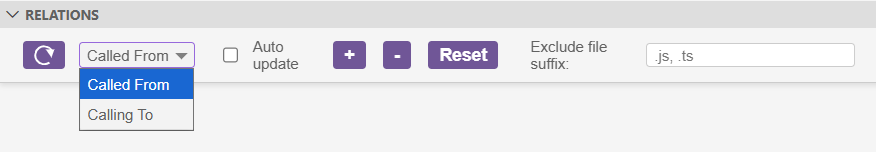
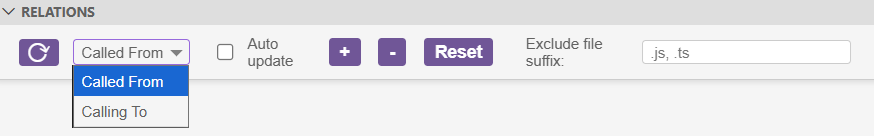
commit new version v3.5.11

diff --git a/src/view/index.html b/src/view/index.html
@@ -1078,31 +1078,6 @@
         });
     </script>
     <style>
-        /* CSS-based refresh icon */
-        .refresh-icon {
-            display: inline-block;
-            width: 13px;
-            height: 13px;
-            border: 2px solid currentColor;
-            border-radius: 50%;
-            border-top-color: transparent;
-            position: relative;
-            transform: scaleX(-1) rotate(-100deg);
-        }
-
-        .refresh-icon::after {
-            content: '';
-            position: absolute;
-            top: -2px;
-            right: -1px;
-            width: 0;
-            height: 0;
-            border-left: 4px solid transparent;
-            border-right: 4px solid transparent;
-            border-bottom: 6px solid currentColor;
-            transform: rotate(45deg);
-        }
-
         html, body {
             margin: 0;
             padding: 0;
@@ -1232,10 +1207,10 @@
         .refresh-button {
             cursor: pointer;
             font-family: sans-serif;
-            font-size: 14px;
+            font-size: 20px;
             font-weight: normal;
             margin: 0 3px;
-            padding: 2px 8px;
+            padding: 0px 6px;
             background-color: var(--vscode-button-background, #007ACC);
             color: var(--vscode-button-foreground, #FFFFFF);
             border: 1px solid var(--vscode-button-border, transparent);
@@ -1246,6 +1221,7 @@
             display: inline-flex;
             align-items: center;
             justify-content: center;
+            line-height: 1;
         }
 
         .refresh-button:hover {
@@ -1357,7 +1333,7 @@
 
 <body>
     <div id="auto-update-container">
-        <button class="refresh-button" id="refresh-btn" title="Refresh"><span class="refresh-icon"></span></button>
+        <button class="refresh-button" id="refresh-btn" title="Refresh">⟳</button>
         <select id="hierarchy-direction-dropdown">
             <option value="calledFrom" selected>Called From</option>
             <option value="callingTo">Calling To</option>

diff --git a/README.md b/README.md
@@ -43,7 +43,7 @@ If you want show relations by a shortcut key, you can add the following code to 
 6. User can choose to see either a "Called From" relation or a "Calling To", from the dropdown list. this has no effect when user has chosen a variable. Variables only shows on graph it's references in the code.
 
 ## Latest look
-![setup](https://github.com/ShaiModingGit/RelationWindow/blob/main/images/how_its_looking.png)
+![setup](https://github.com/ShaiModingGit/RelationWindow/blob/main/images/how_its_looking.png?raw=true)
 
 
 ## How to use and setup

diff --git a/CHANGELOG.md b/CHANGELOG.md
@@ -1,4 +1,7 @@
 # Change Log
+## 3.5.11
+- minor fix to the readme and refresh icon
+
 ## 3.5.7
 - added documentation in the readme for the extra capabilities and new image link to show the latest look instead of updating a gif with the latest flows that are implemented
 
